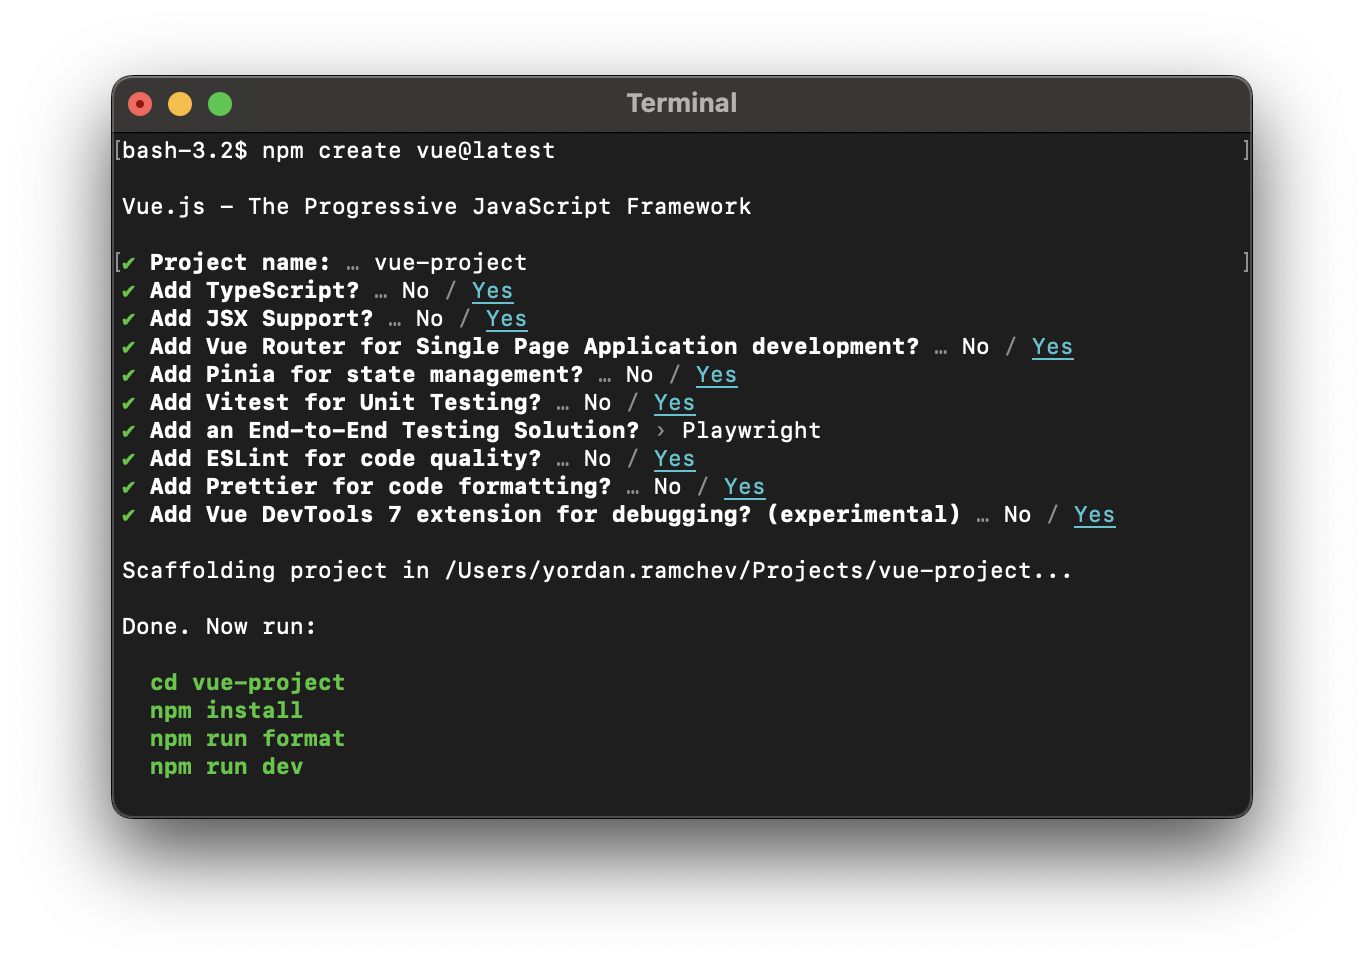
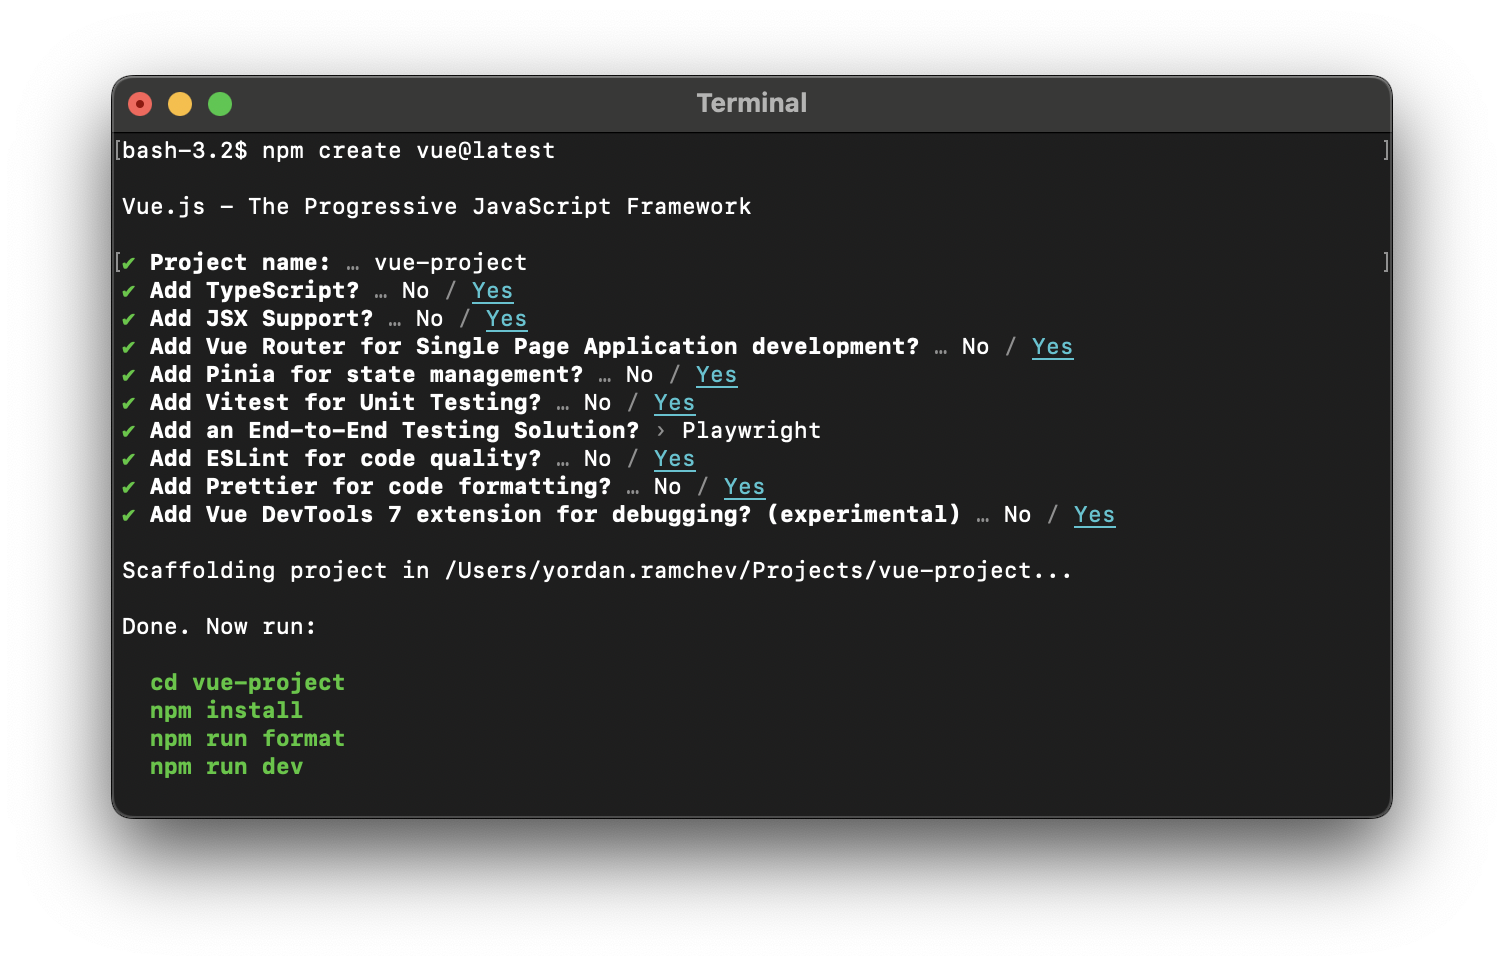
doc: update image and image width

Changed region(s): [[0.0616, 0.0621, 0.8314, 0.8696], [0.893, 0.0621, 0.9238, 0.8696], [0.4619, 0.0932, 0.5543, 0.1242]]

diff --git a/README.md b/README.md
@@ -3,7 +3,7 @@
 The recommended way to start a Vite-powered Vue project
 
 <p align="center">
-  <img src="https://github.com/vuejs/create-vue/blob/main/media/screenshot-cli.png?raw=true" width="682">
+  <img src="https://github.com/vuejs/create-vue/blob/main/media/screenshot-cli.png?raw=true" width="752">
 </p>
 
 ## Usage
